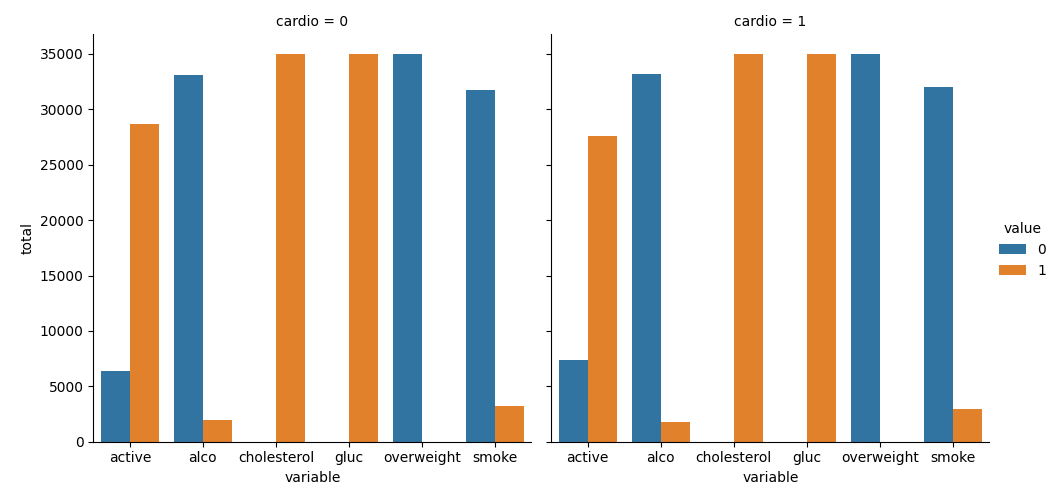
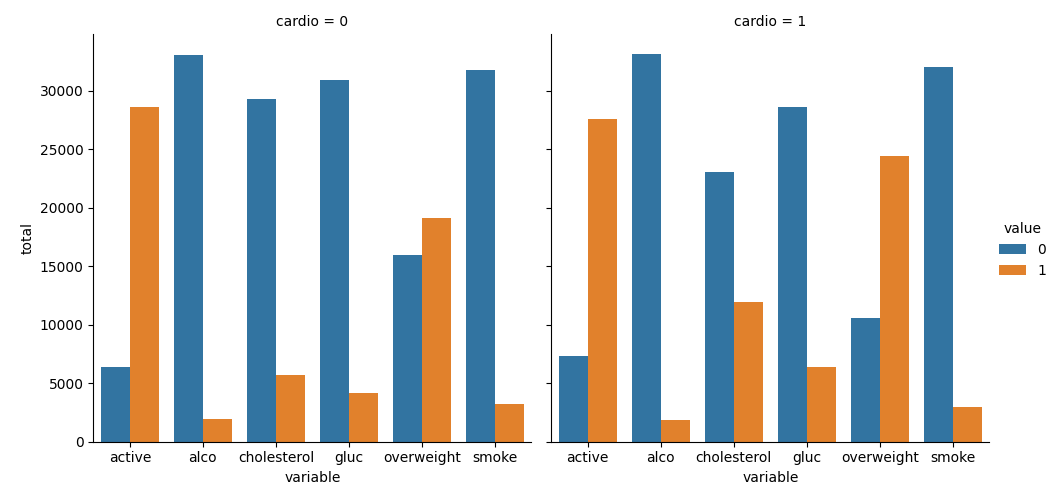
Final solution reached

diff --git a/medical_data_visualizer.py b/medical_data_visualizer.py
@@ -6,32 +6,16 @@ import numpy as np # pyright: ignore[reportMissingImports]
 # 1
 df = pd.read_csv("medical_examination.csv")
 
-# 2
-overweightData = []
-for i in range(len(df["weight"])):
-    if df["weight"][i]/(df["height"][i]**2) > 25:
-        overweightData.append(1)
-    else:
-        overweightData.append(0)
-df['overweight'] = overweightData
+# 2: compute BMI correctly (height is in cm -> convert to meters)
+df['overweight'] = (df['weight'] / ((df['height'] / 100) ** 2) > 25).astype(int)
 
 # 3
 newChol = []
 newGluc = []
 
-for i in range(len(df["cholesterol"])):
-    if df["cholesterol"][i] >= 1:
-        newChol.append(1)
-    else:
-        newChol.append(0)
-df["cholesterol"] = newChol
-
-for i in range(len(df["gluc"])):
-    if df["gluc"][i] >= 1:
-        newGluc.append(1)
-    else:
-        newGluc.append(0)
-df["gluc"] = newGluc
+# normalize cholesterol and gluc: 1 -> 0 (normal), >1 -> 1 (elevated)
+df['cholesterol'] = (df['cholesterol'] > 1).astype(int)
+df['gluc'] = (df['gluc'] > 1).astype(int)
 
 # 4
 def draw_cat_plot():
@@ -56,62 +40,31 @@ def draw_cat_plot():
 # 10
 def draw_heat_map():
     # 11
-    df_heat = df
+    df_heat = df.copy()
 
-    New_ap_lo = []
-    New_ap_hi = []
-    New_height = []
-    New_weight = []
-    removedIndexes = []
+    # build a boolean mask using bitwise operators (Series require & not `and`)
+    # *HELP WITH COPILOT WAS USED - I DID NOT UNDERSTAND HOW THIS FUNCTION WORKS*
+    mask = (
+        (df_heat['ap_lo'] <= df_heat['ap_hi']) &
+        (df_heat['height'] >= df_heat['height'].quantile(0.025)) &
+        (df_heat['height'] <= df_heat['height'].quantile(0.975)) &
+        (df_heat['weight'] >= df_heat['weight'].quantile(0.025)) &
+        (df_heat['weight'] <= df_heat['weight'].quantile(0.975))
+    )
 
-    for i in range(len(df["ap_lo"])):
-        if (df["ap_lo"][i] <= df["ap_hi"][i]):
-            New_ap_lo.append(df["ap_lo"][i])
-            New_ap_hi.append(df["ap_hi"][i])
-        else:
-            removedIndexes.append(i)
-            New_ap_hi.append(0)
-            New_ap_lo.append(0)
-
-    for i in range(len(df["height"])):
-        if i in removedIndexes:
-            New_height.append(0)
-        elif (df["height"][i] >= df["height"].quantile(0.025)) and (df["height"][i] <= df["height"].quantile(0.975)):
-            New_height.append(df["height"][i])
-        else:
-            removedIndexes.append(i)
-            New_height.append(0)
-
-    for i in range(len(df["weight"])):
-        if i in removedIndexes:
-            New_weight.append(0)
-        elif (df["weight"][i] >= df["weight"].quantile(0.025)) and (df["weight"][i] <= df["weight"].quantile(0.975)):
-            New_weight.append(df["weight"][i])
-        else:
-            removedIndexes.append(i)
-            New_weight.append(0)
-
-    df_heat["ap_lo"] = New_ap_lo
-    df_heat["ap_hi"] = New_ap_hi
-    df_heat["height"] = New_height
-    df_heat["weight"] = New_weight
-
-    df_heat = df_heat.drop(removedIndexes)
+    df_heat = df_heat[mask]
 
     # 12
-    corr = df_heat.coor(Numeric_Only=True)
+    corr = df_heat.corr(numeric_only=True)
 
     # 13
-    mask = None
-
-
+    mask = np.triu(np.ones_like(corr, dtype=bool))
 
     # 14
-    fig, ax = None
+    fig, ax = plt.subplots(figsize=(15, 10))
 
-    # 15
-
-
+    # 15: plot onto the Axes and keep the Figure in `fig`
+    sns.heatmap(data=corr, annot=True, fmt='.1f', cbar=True, mask=mask, ax=ax)
 
     # 16
     fig.savefig('heatmap.png')
